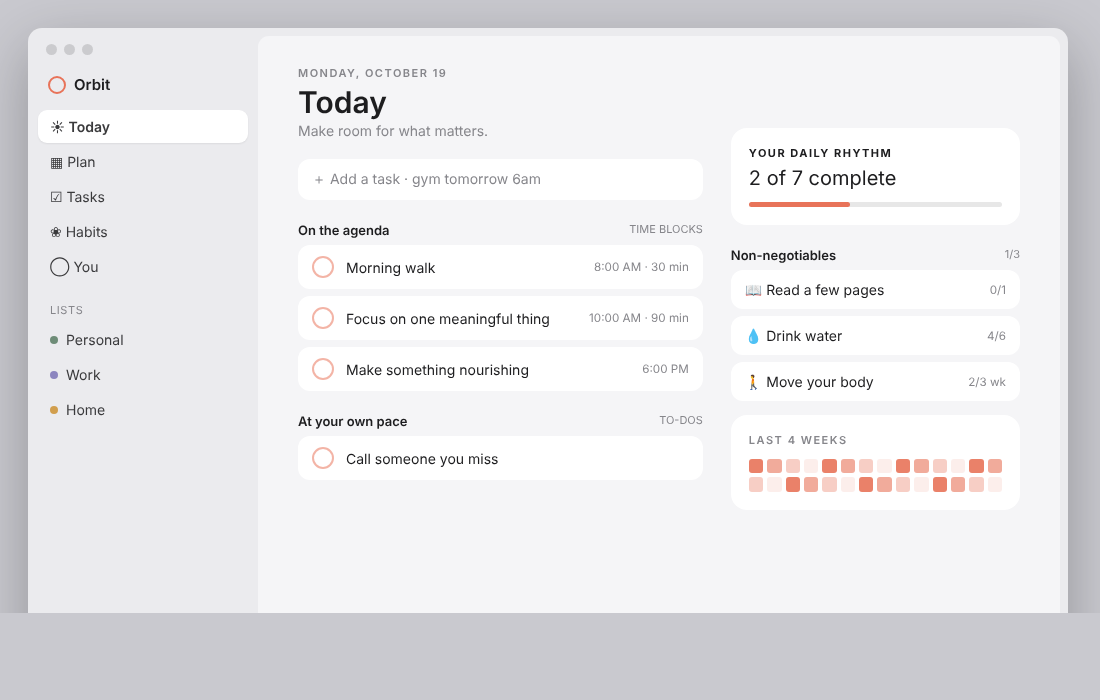
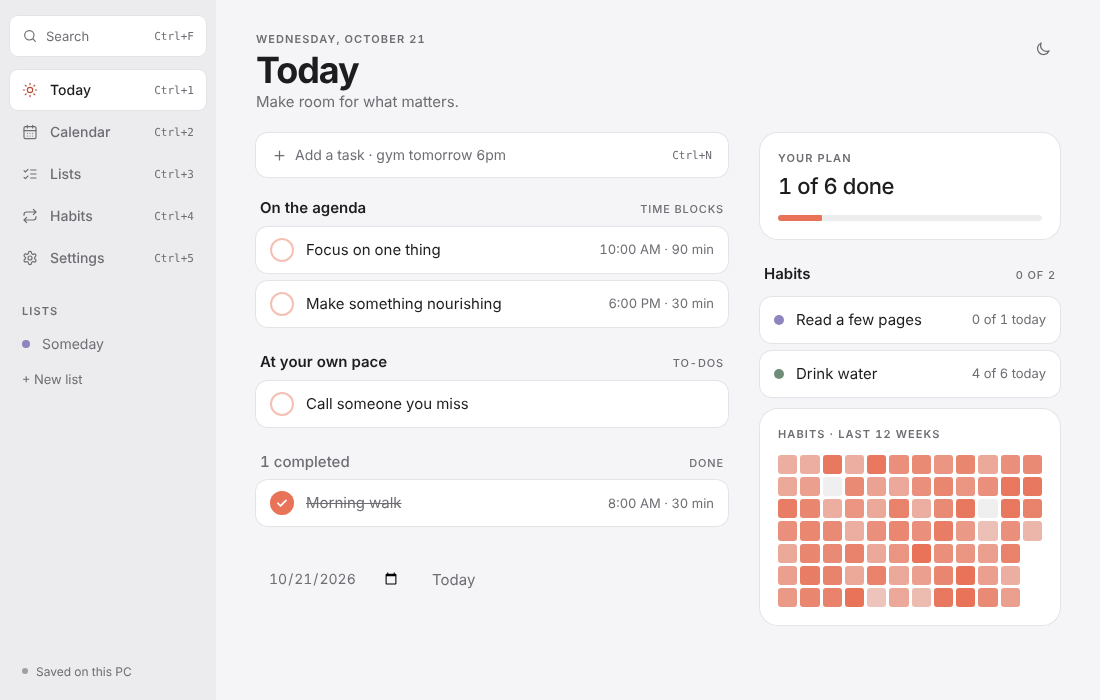
Docs: design reference is the website's app screens; current screens and comparisons
Replaces the old HTML mockups with a short design summary, screenshots of each
screen as it is now, and website · before · after comparisons.

Claude-Session: https://claude.ai/code/session_01NASeMq1hRoGQ8ThsP4Wtop

diff --git a/docs/mockups/README.md b/docs/mockups/README.md
@@ -1,0 +1,23 @@
+# Design reference
+
+The look of both apps follows the app screens on the Orbit website
+([jaiten/orbit-web](https://github.com/jaiten/orbit-web): `src/components/devices/*`,
+`src/components/widgets/Widgets.tsx`, `src/components/bklit/*`, `src/lib/motion.ts`).
+Colours, type, row metrics, grid shape and springs live in `shared/design-tokens.json`,
+which generates `windows/ui/tokens.css` and `ios/Shared/DesignTokens.swift`.
+
+The rules, in short:
+
+- Canvas `#F5F5F7` / `#141416`; cards and rows on `#FFFFFF` / `#1F1F21` with a 1px line
+  (`#E4E4E8` / `#323236`) instead of a shadow. Cards 18px radius, rows 12px, chips pill.
+- Large title 34–36 bold with tight tracking; 11px uppercase eyebrows (+0.1em) above cards
+  and sections; tabular numerals for counts and times.
+- Coral `#E87359` only for ticks, progress, selection and the one primary action (text
+  `#B74F38` in light mode). Habit colours appear only as dots, grid boxes and bars.
+- Springs (stiffness 300, damping 30) for UI, softer for large elements; opacity and
+  transform only; rows enter 50ms apart; reduced motion turns movement into fades.
+
+## Screens
+
+`windows-*.png` and `ios-today.png` are the apps as they look now, with the website's
+sample plan. `comparisons/` shows each screen as website · before · after.
